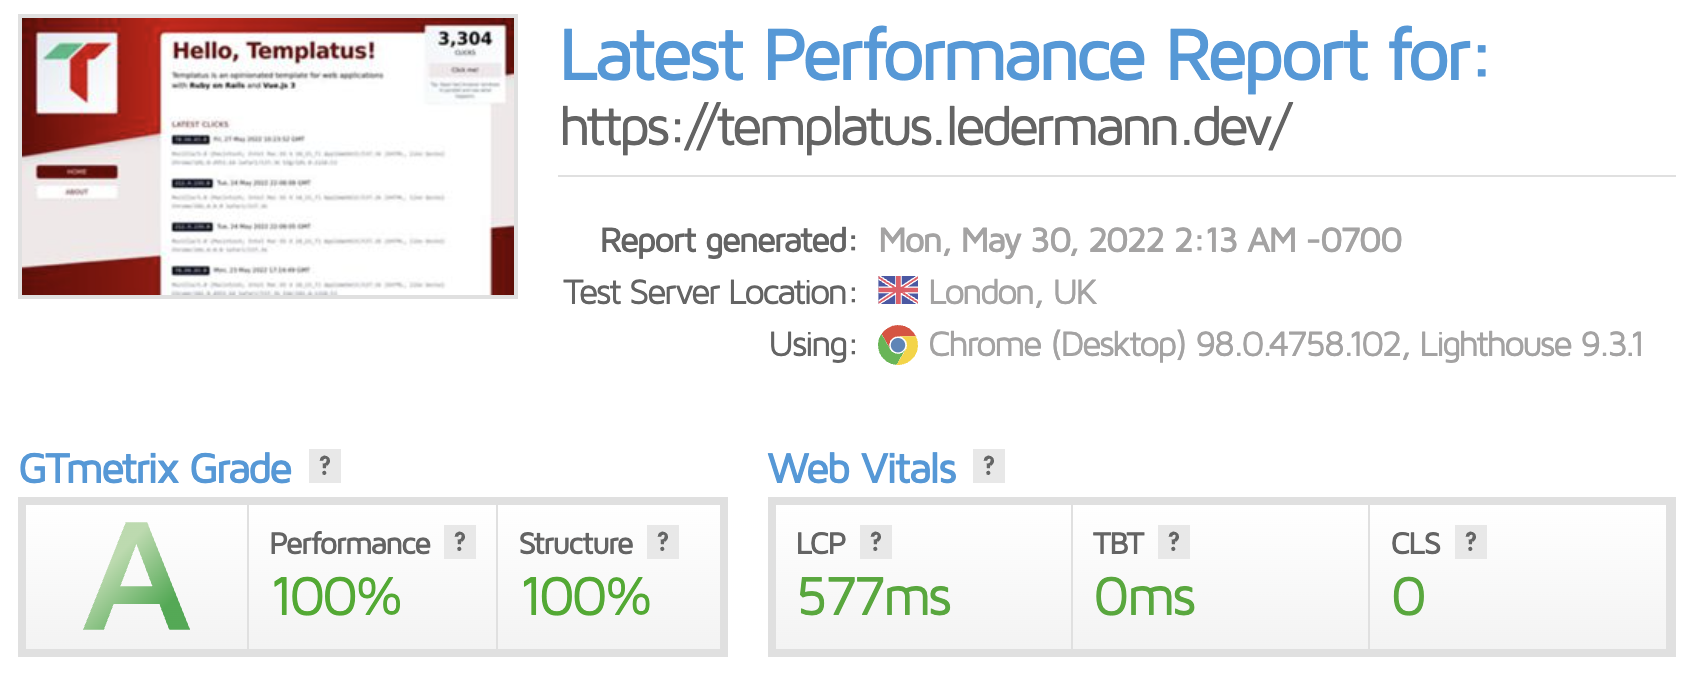
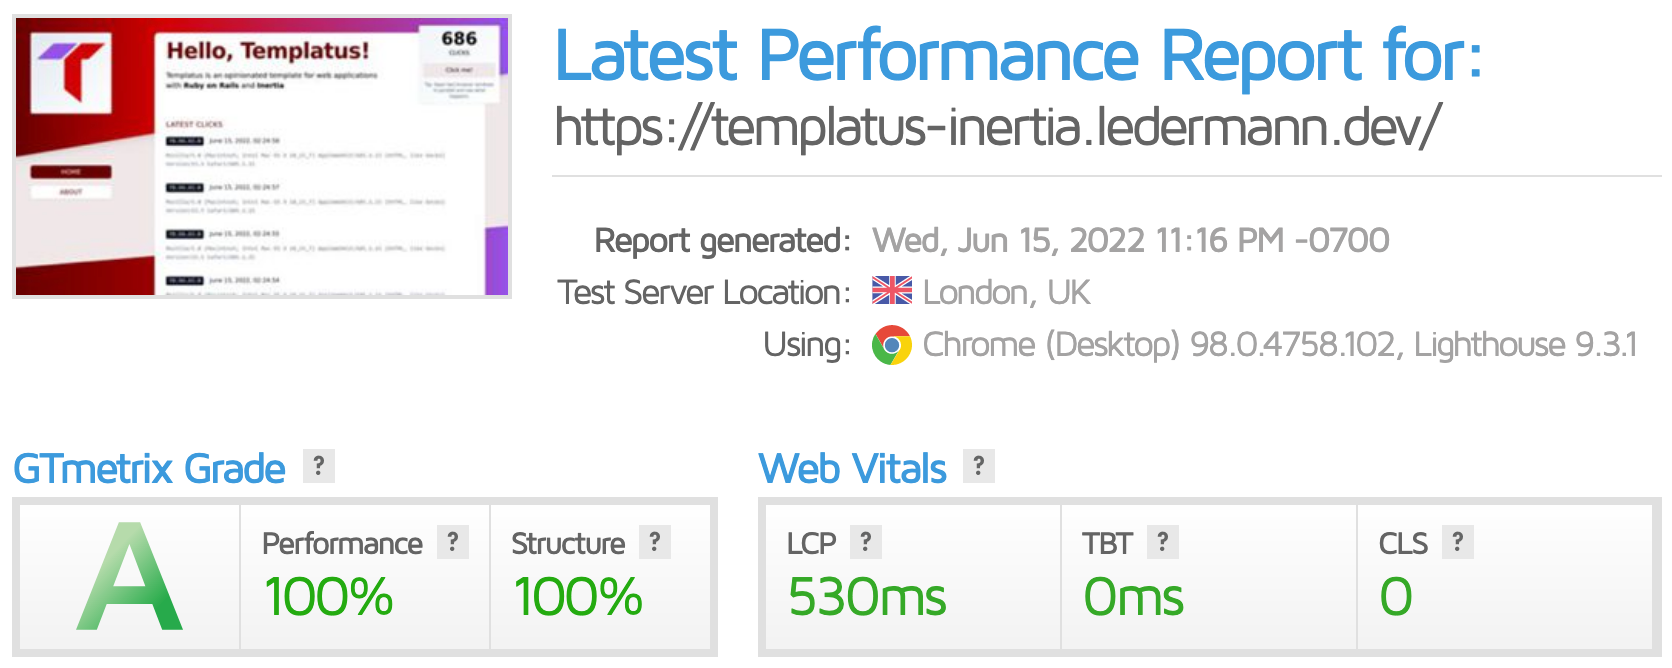
Apply name change of repo & domain

Changed region(s): [[0.0, 0.0, 0.9952, 0.5389], [0.0, 0.6587, 0.9952, 0.988], [0.2488, 0.1198, 0.2799, 0.1497]]

diff --git a/README.md b/README.md
@@ -87,11 +87,11 @@ https://github.com/rails/rails/pull/41994
 
 ### WebPageTest
 
-[![WebPageTest](docs/web-page-test.png)](https://www.webpagetest.org/result/220530_BiDcQQ_83b754931114d99469b521e72731eb4d/)
+[![WebPageTest](docs/web-page-test.png)](https://www.webpagetest.org/result/220616_BiDcE2_4B7/)
 
 ### GTmetrix
 
-[![GTmetrix](docs/GTmetrix.png)](https://gtmetrix.com/reports/templatus-inertia.ledermann.dev/OsUlXu9V/)
+[![GTmetrix](docs/GTmetrix.png)](https://gtmetrix.com/reports/templatus-inertia.ledermann.dev/UNRVxoRT/)
 
 ### Check-your-website
 
@@ -125,26 +125,26 @@ Build with Vite complete: /Users/ledermann/Projects/templatus-inertia/public/vit
 
 ### Network transfer
 
-Small footprint: The demo application transfers only **72 KB** of data on the first visit.
+Small footprint: The demo application transfers only **71 KB** of data on the first visit.
 
 ![Network](docs/network.png)
 
 ### Docker build time
 
-With multi-stage building and using [DockerRailsBase](https://github.com/ledermann/docker-rails-base) the build of the Docker image takes very little time. Currently, the `deploy` job requires about 1,5 minutes on GitHub Actions (see https://github.com/ledermann/templatus-inertia/actions)
+With multi-stage building and using [DockerRailsBase](https://github.com/ledermann/docker-rails-base) the build of the Docker image takes very little time. Currently, the `deploy` job requires about 1,5 minutes on GitHub Actions (see https://github.com/templatus/templatus-inertia/actions)
 
 ### Docker image size
 
 The Docker image is based on Alpine Linux and is optimized for minimal size (currently **115 MB** uncompressed disk size). It includes just the bare minimum - no build tools like Node.js, no JS sources (just the compiled assets), no tests.
 
 ```
-$ container-diff analyze ghcr.io/ledermann/templatus-inertia -n
+$ container-diff analyze ghcr.io/templatus/templatus-inertia -n
 
 -----Size-----
 
-Analysis for ghcr.io/ledermann/templatus-inertia:
+Analysis for ghcr.io/templatus/templatus-inertia:
 IMAGE                                 DIGEST     SIZE
-ghcr.io/ledermann/templatus-inertia   sha256:... 114.7M
+ghcr.io/templatus/templatus-inertia   sha256:... 115M
 ```
 
 ## Getting started
@@ -154,7 +154,7 @@ ghcr.io/ledermann/templatus-inertia   sha256:... 114.7M
 1. Clone the repo locally:
 
 ```bash
-git clone git@github.com:ledermann/templatus-inertia.git
+git clone git@github.com:templatus/templatus-inertia.git
 cd templatus-inertia
 ```
 
